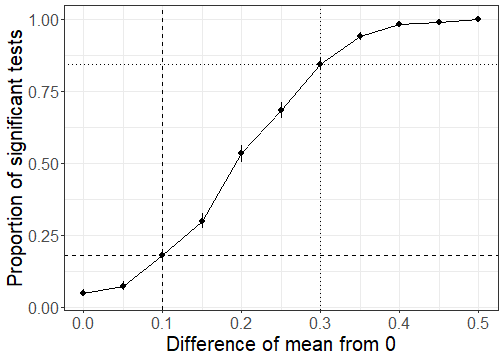
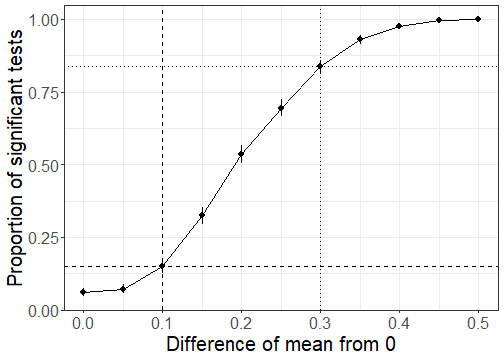
fixed typo

diff --git a/Week-23---Power-and-Effect-Size.html b/Week-23---Power-and-Effect-Size.html
@@ -69,13 +69,13 @@ t.test(a, b)
 ## 	Welch Two Sample t-test
 ## 
 ## data:  a and b
-## t = -5.2875, df = 96.591, p-value = 7.705e-07
+## t = -4.8776, df = 96.373, p-value = 4.236e-06
 ## alternative hypothesis: true difference in means is not equal to 0
 ## 95 percent confidence interval:
-##  -1.4128043 -0.6416112
+##  -1.5209964 -0.6411411
 ## sample estimates:
 ##  mean of x  mean of y 
-## -0.1956339  0.8315739
+## -0.2502535  0.8308152
 ```
 
 ---
@@ -245,9 +245,9 @@ As the effect size increases, the **power** of the study increases.
 ![](Week-23---Power-and-Effect-Size_files/figure-html/unnamed-chunk-6-1.png)&lt;!-- --&gt;
 ]
 .pull-right[
-The study has approximately 17.8% power to detect a 0.1 difference in means.
+The study has approximately 15% power to detect a 0.1 difference in means.
 
-But the study also has approximately 84.4% power to detect a 0.3 difference in means.
+But the study also has approximately 83.7% power to detect a 0.3 difference in means.
 
 Studies have a **power curve**, not a single *power*.
 ]
@@ -425,13 +425,13 @@ t.test(a, b)
 ## 	Welch Two Sample t-test
 ## 
 ## data:  a and b
-## t = -5.2875, df = 96.591, p-value = 7.705e-07
+## t = -4.8776, df = 96.373, p-value = 4.236e-06
 ## alternative hypothesis: true difference in means is not equal to 0
 ## 95 percent confidence interval:
-##  -1.4128043 -0.6416112
+##  -1.5209964 -0.6411411
 ## sample estimates:
 ##  mean of x  mean of y 
-## -0.1956339  0.8315739
+## -0.2502535  0.8308152
 ```
 
 ```r
@@ -439,7 +439,7 @@ t.test(a, b)
 ```
 
 ```
-## [1] -1.057495
+## [1] -0.9755233
 ```
 
 ---
@@ -607,9 +607,9 @@ afex::aov_ez(dv = "RT",
 ## 
 ## Response: RT
 ##            Effect    df     MSE          F   ges p.value
-## 1           Block 1, 49 1708.09 284.70 ***   .56  &lt;.0001
-## 2       Viewpoint 1, 49 2338.19       0.02 .0001     .89
-## 3 Block:Viewpoint 1, 49 1793.12       1.77  .008     .19
+## 1           Block 1, 49 2808.17 146.25 ***   .50  &lt;.0001
+## 2       Viewpoint 1, 49 1872.69       0.07 .0003     .79
+## 3 Block:Viewpoint 1, 49 1798.23       1.51  .007     .23
 ## ---
 ## Signif. codes:  0 '***' 0.001 '**' 0.01 '*' 0.05 '+' 0.1 ' ' 1
 ```
